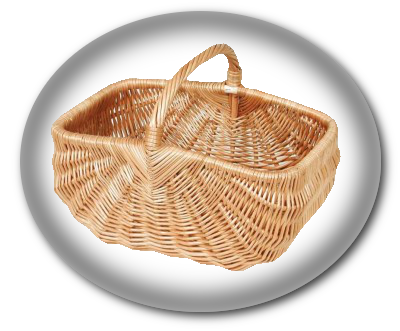
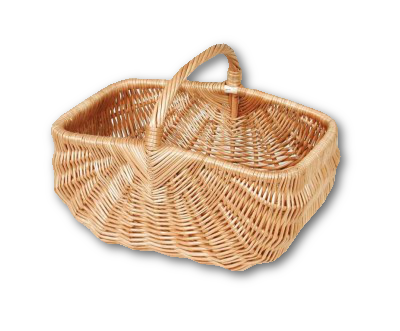
vignettes a propos. Retouche du boutonPanier. Ajout de martin.png

Changed region(s): [[0.03, 0.0302, 0.99, 0.997], [0.66, 0.2719, 0.72, 0.3021], [0.39, 0.2115, 0.42, 0.2417]]

diff --git a/style.css b/style.css
@@ -56,7 +56,7 @@ width: 100%;
 		max-width			:	1366px;
 		margin				:	auto;
 		font-family			:	'PoetsenOne-Regular';
-		background-image	:	url('img/design/bandeau4.jpg');
+		/*background-image	:	url('img/design/bandeau4.png');*/
 		background-repeat	:	no-repeat;
 		background-size		:	100%;
 		min-height			:	608px;
@@ -92,7 +92,7 @@ width: 100%;
 	#wrap{
 		min-width			:	1290px;
 		max-width			:	1366px;
-		background-image	:	url('img/design/bandeau4.jpg');
+		/*background-image	:	url('img/design/bandeau4.jpg');*/
 		font-family			:	'PoetsenOne-Regular';
 		background-repeat	:	no-repeat;
 		background-size		:	100%;
@@ -133,7 +133,7 @@ width: 100%;
 {
 	#wrap{
 		min-width			:	1024px;
-		background-image	:	url('img/design/bandeau4.jpg');
+		/*background-image	:	url('img/design/bandeau4.jpg');*/
 		background-repeat	:	no-repeat;
 		background-size		:	100%;
 		min-height			:	100%;
@@ -241,7 +241,6 @@ width: 100%;
 }
 
 #header_boxUser input{	/* Les input du formulaire de connexion client.*/
-
 	width				:	190px;
 	height				:	30px;
 	margin				:	10px;
@@ -249,7 +248,6 @@ width: 100%;
 }
 
 #header_slogan{
-
 	position			:	absolute;
 	top					:	50px;
 	height				:	50px;
@@ -262,7 +260,6 @@ width: 100%;
 }
 
 #boxVideo{
-
 	position			:	absolute;
 	top					:	115px;
 	left				:	50px;
@@ -271,8 +268,7 @@ width: 100%;
 /*---------------------------------------------LEFTNAV-------------------------------------------------*/
 
 #wrap_leftNav{
-
-	background-color	:	rgba(0, 0, 0, 0.55);
+	background-color	:	rgba(0, 0, 0, 0.75);
 	width				:	18%;
 	min-height			:	100%;
 	border				:	1px solid white;
@@ -283,20 +279,17 @@ width: 100%;
 }
 
 #leftNav_logo{
-
 	width				:	100%;
 	text-align			:	center;
 	margin-bottom		:	10px;
 }
 
 #leftNav_logo img{
-
 	height				:	100px;
 
 }
 
 #leftNav_titre{
-
 	color				:	black;
 	font-family			: 	'METAG___';
 	text-align			:	center;
@@ -306,7 +299,6 @@ width: 100%;
 }
 
 #leftNav_recherche{
-
 	width				:	80%;
 	margin				:	auto;
 	text-align			:	center;
@@ -316,7 +308,6 @@ width: 100%;
 }
 
 #leftNav_recherche input, #leftNav_recherche a{
-
 	margin-top			:	10px;
 	display				:	inline-block;
 	vertical-align		:	top;
@@ -324,15 +315,13 @@ width: 100%;
 }
 
 #leftNav_recherche input{
-
 	width				:	160px;
 	height				:	30px;
 	margin-right		:	10px;
-
+	background-color	:	rgba(68,68,171, 0,5);
 }
 
 #leftNav_ul{
-
 	margin-top			:	10px;
 	width				:	100%;
 	text-align			:	center;
@@ -340,7 +329,6 @@ width: 100%;
 }
 
 #leftNav_ul .leftNav_li{
-
 	text-align			:	center;
 	width				:	80%;
 	border-top			:	1px solid white;
@@ -348,44 +336,57 @@ width: 100%;
 }
 
 #leftNav_ul .li_navCat a:visited{
-
 	color				:	black;
 }
 
 #leftNav_ul .li_navCat a:hover{
-
 	background-color	:	green;
 }
 
 #leftNav_ul .li_navCat a{
-
 	display				:	block;
 	color				:	black;
 }
 
-#leftNav_ul .leftNav_li #leftNav_ul_about .leftNav_li_about a:visited{
-
-	color				:	black;
-}
-
-#leftNav_ul .leftNav_li #leftNav_ul_about .leftNav_li_about a:hover{
-
-	background-color	:	green;
-}
-
-#leftNav_ul .leftNav_li #leftNav_ul_about .leftNav_li_about a{
-
+#leftNav_ul .leftNav_li #leftNav_ul_about li a{
 	display				:	block;
-	color				:	black;
+	width				:	40px;
+	height				:	40px;
 }
 
-#leftNav_ul .leftNav_li #leftNav_ul_about .leftNav_li_about{
+#leftNav_ul .leftNav_li #leftNav_ul_about li{
+	display				:	inline-block;
+	vertical-align		:	top;
+}
 
-	width				:	100%;
-	text-align			:	left;
-	height				:	25px;
-	line-height			:	25px;
+#leftNav_ul .leftNav_li #leftNav_ul_about #leftNav_li_aboutFAQ a{
+	background			:	url('img/design/FAQ.png');
+	background-size		:	100%;
+}
 
+#leftNav_ul .leftNav_li #leftNav_ul_about #leftNav_li_aboutFAQ a:hover{
+	background			:	url('img/design/FAQHover.png');
+	background-size		:	100%;
+}
+
+#leftNav_ul .leftNav_li #leftNav_ul_about #leftNav_li_aboutTeam a{
+	background			:	url('img/design/boutonTeam.png');
+	background-size		:	100%;
+}
+
+#leftNav_ul .leftNav_li #leftNav_ul_about #leftNav_li_aboutTeam a:hover{
+	background			:	url('img/design/boutonTeamHover.png');
+	background-size		:	100%;
+}
+
+#leftNav_ul .leftNav_li #leftNav_ul_about #leftNav_li_aboutProd a{
+	background			:	url('img/design/boutonFerme.png');
+	background-size		:	100%;
+}
+
+#leftNav_ul .leftNav_li #leftNav_ul_about #leftNav_li_aboutProd a:hover{
+	background			:	url('img/design/boutonFermeHover.png');
+	background-size		:	100%;
 }
 
 #leftNav_ul .li_navCat{
@@ -440,9 +441,9 @@ width: 100%;
 #wrap_section{
 	width				:	80%;
 	height				:	100%;
-	/*background-image	:	url('img/design/bandeau.jpg');*/
-	/*background-repeat	:	no-repeat;*/
-	/*background-size		:	cover;*/
+	background-image	:	url('img/design/martin.png');
+	background-repeat	:	no-repeat;
+	background-size		:	cover;
 }
 
 #wrap_leftNav, #wrap_section{

diff --git a/views/leftNav/view_leftNav.php b/views/leftNav/view_leftNav.php
@@ -16,9 +16,9 @@
 			<li class='leftNav_li'>
 				<h3>A propos</h3>
 				<ul id='leftNav_ul_about'>
-					<li class='leftNav_li_about'><a href=''>Comment ça marche?</a></li>
-					<li class='leftNav_li_about'><a href=''>Vos producteurs</a></li>
-					<li class='leftNav_li_about'><a href=''>Notre équipe</a></li>
+					<li id='leftNav_li_aboutFAQ'><a href='' title='Comment ça marche?'></a></li>
+					<li id='leftNav_li_aboutProd'><a href='' title='Vos producteurs'></a></li>
+					<li id='leftNav_li_aboutTeam'><a href='' title='Notre équipe'></a></li>
 				</ul>
 			</li>
 			<?php endif;?>
